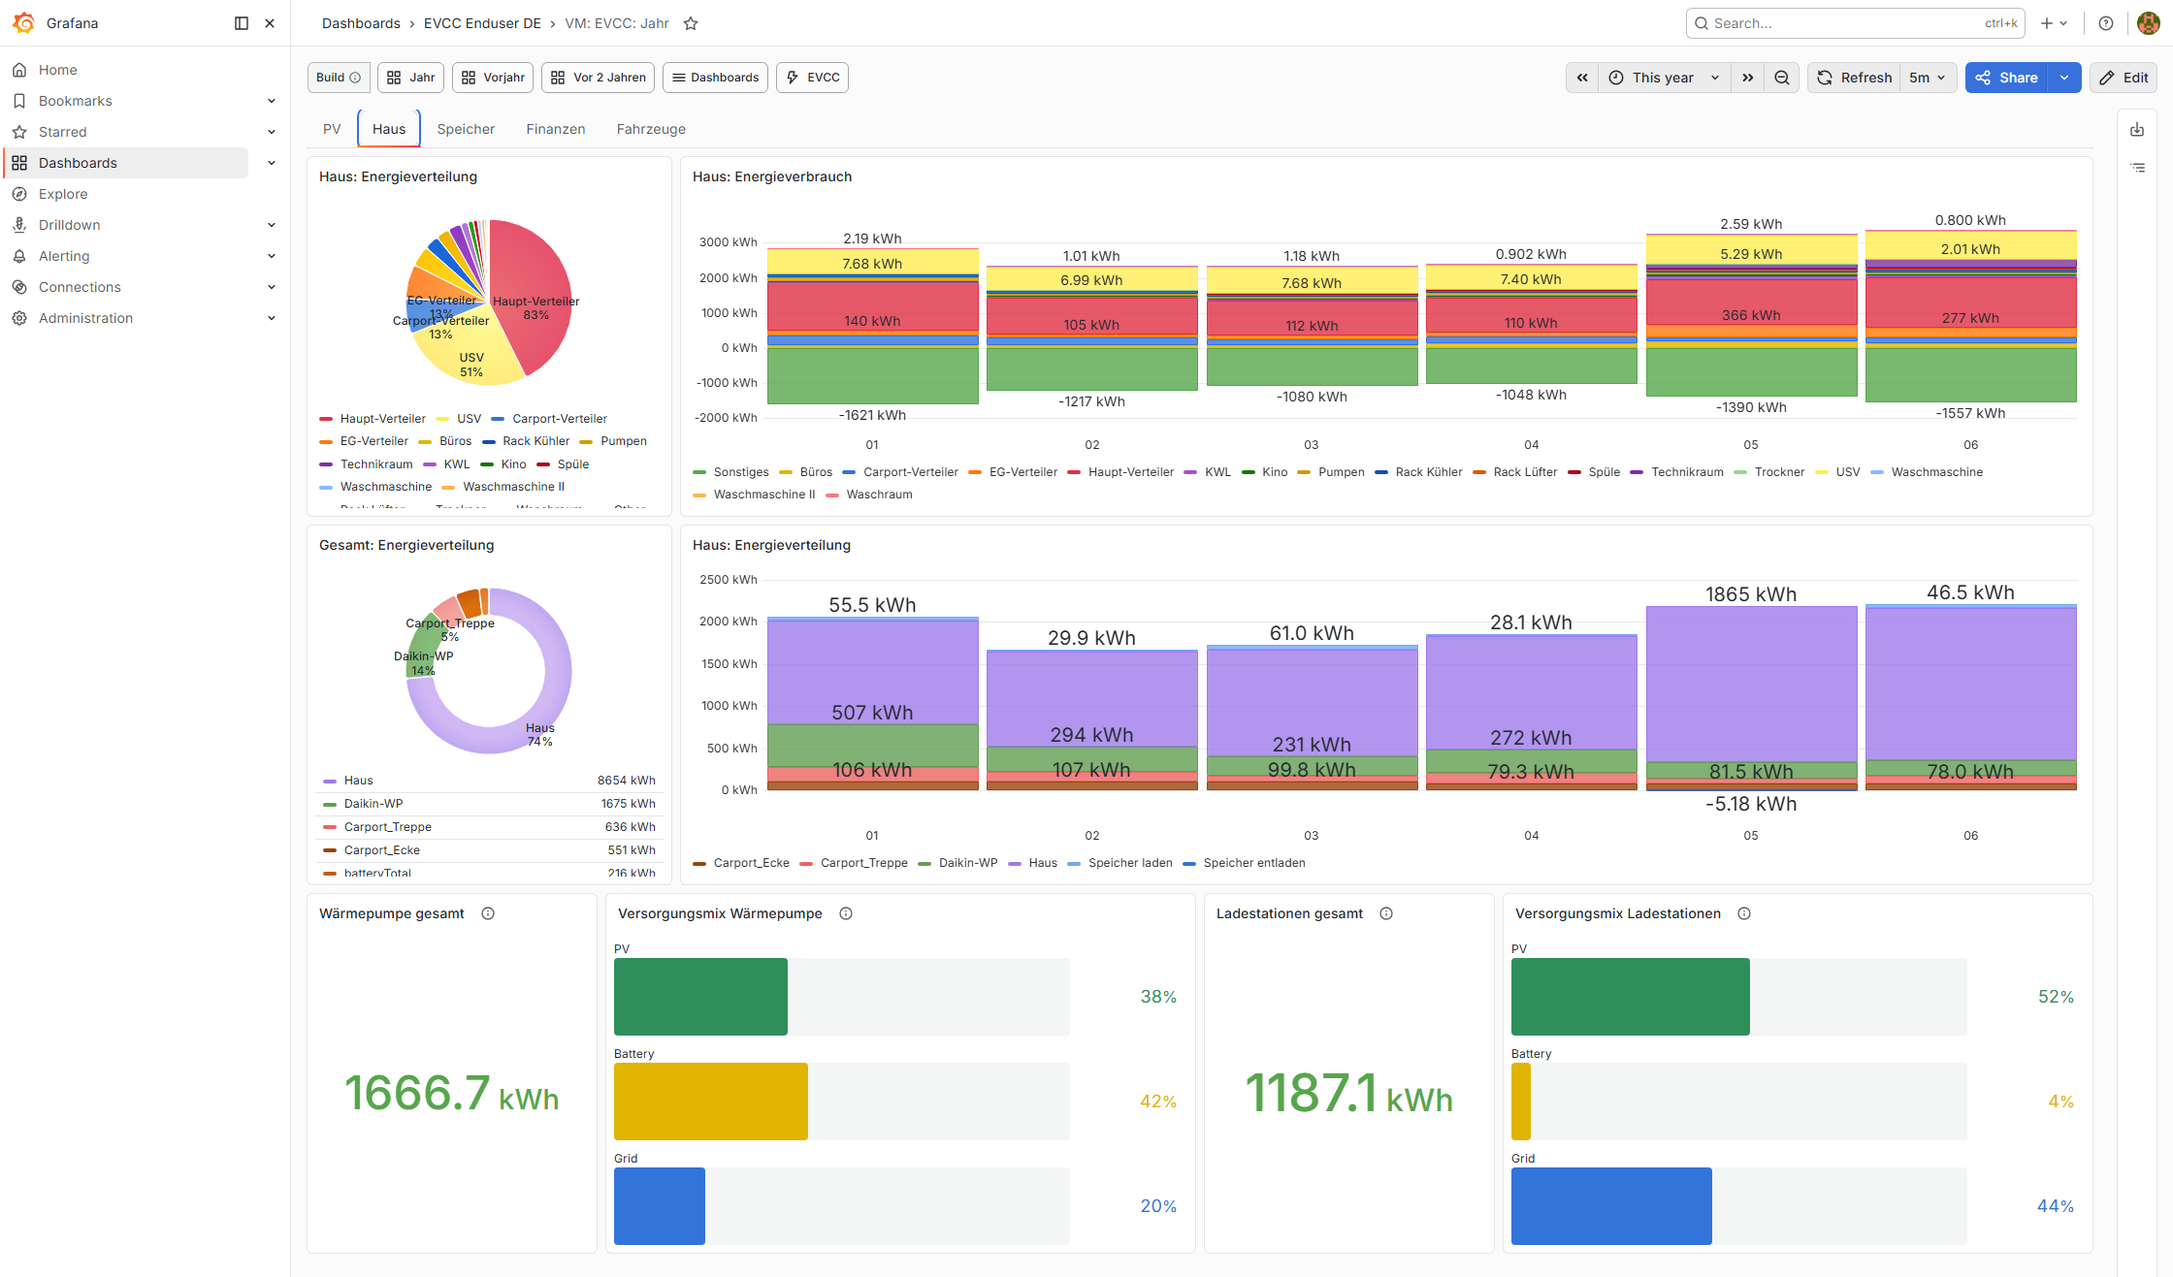
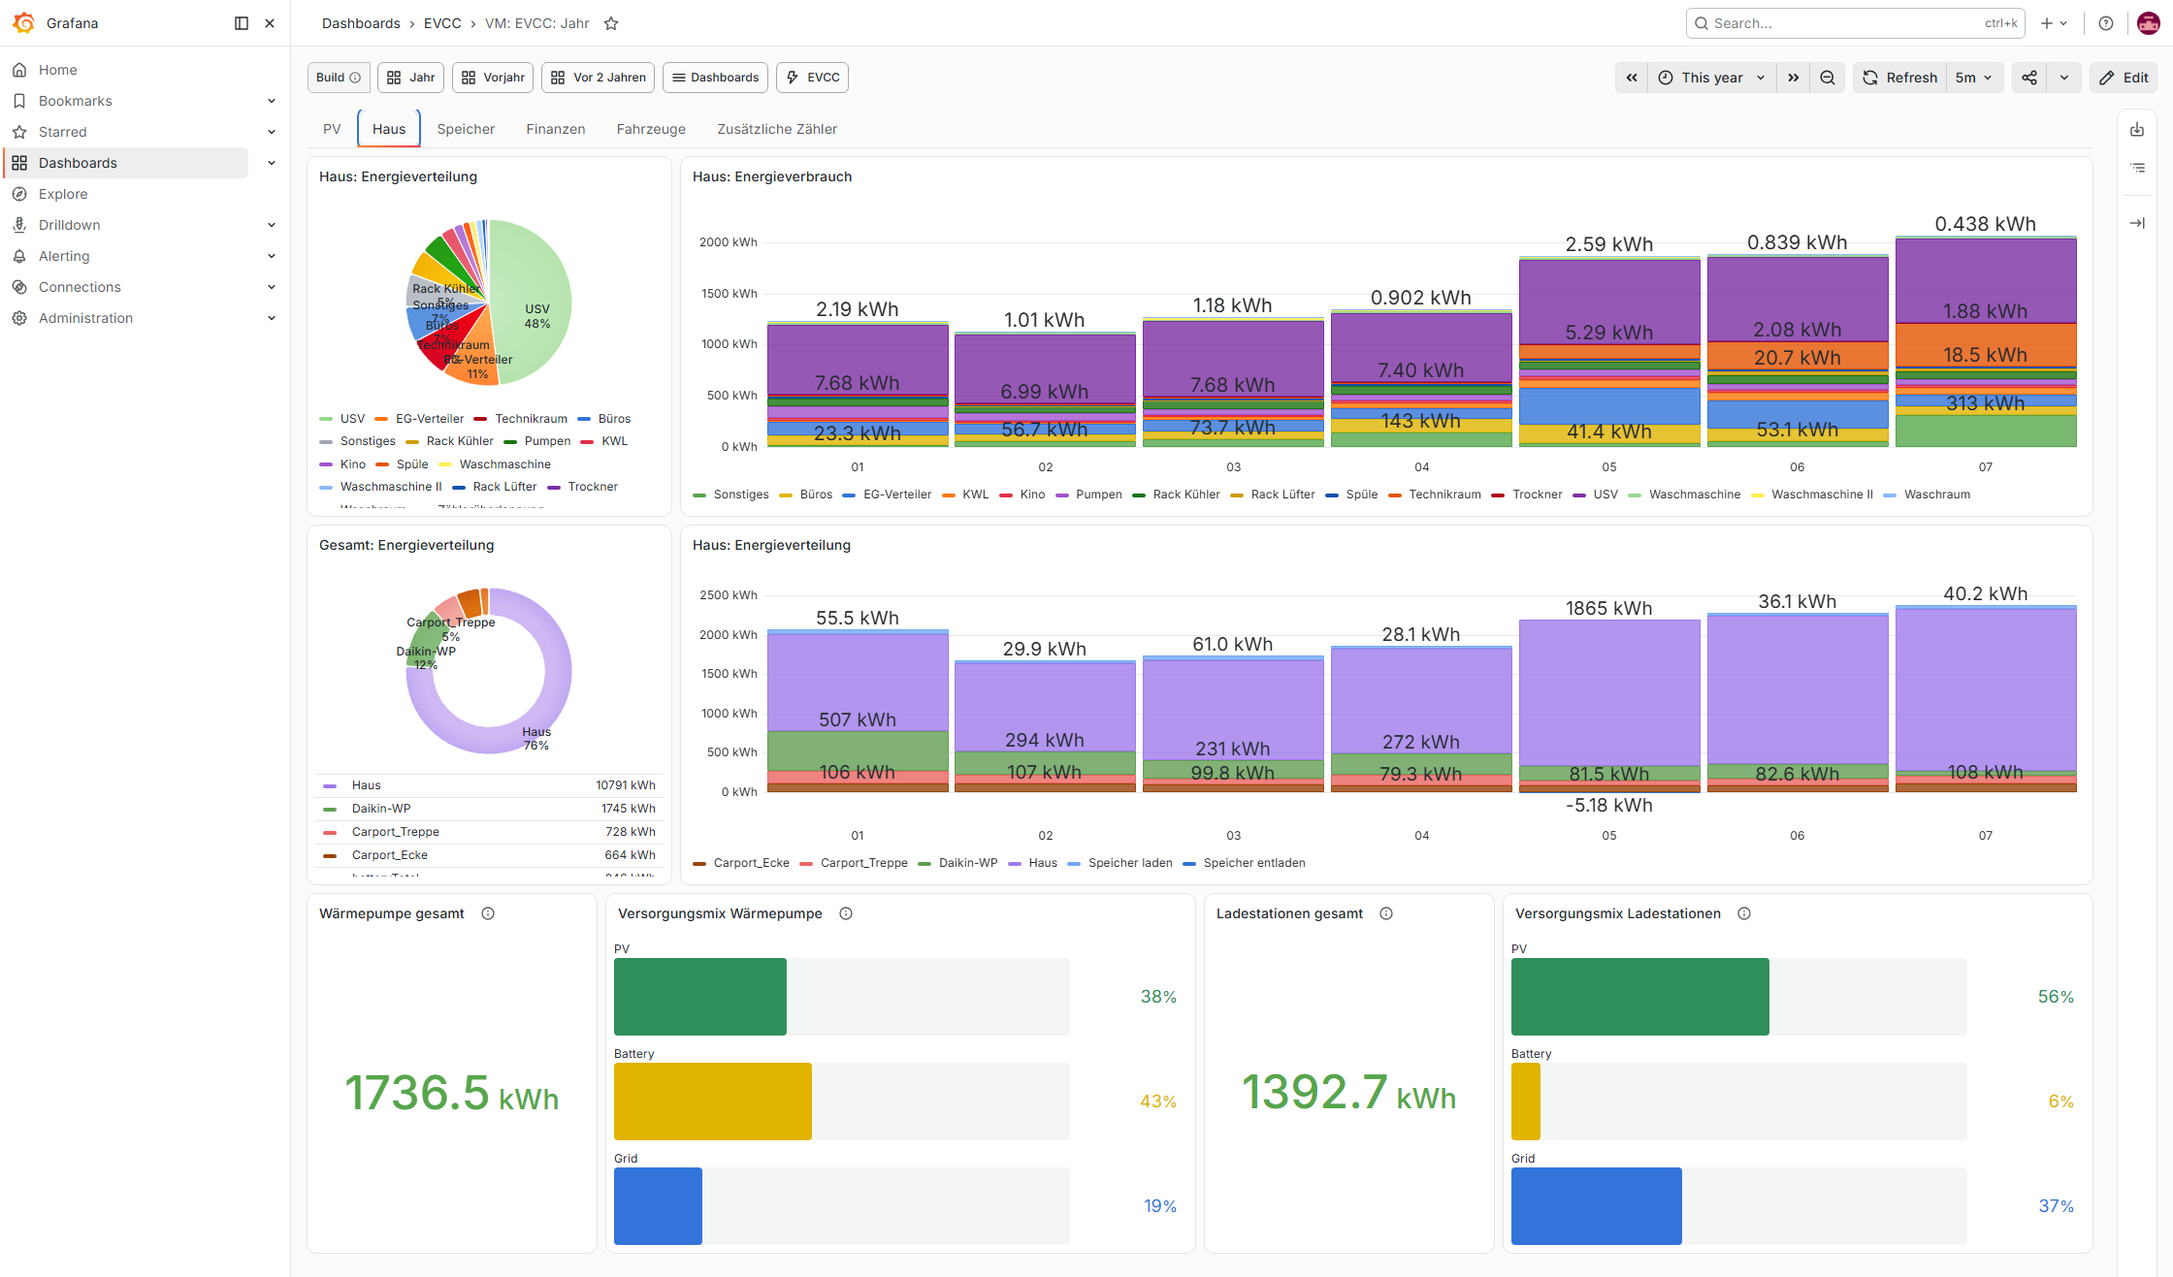
docs: prepare V2026-07-28 release

diff --git a/docs/de/first-release-checklist.md b/docs/de/first-release-checklist.md
@@ -93,7 +93,7 @@ Mindestens diese Punkte muessen vor dem ersten Endnutzer-Release erfuellt sein:
 - [x] taegliche Rollup-Aktualisierung getestet
 - [x] Windows- und Linux-Deployer getestet
 - [x] Lokalisierungs-Audit bei `0`
-- [ ] kuratierte Release-Screenshot-Serie unter [docs/screenshots](../screenshots/README.md) bildet den finalen sichtbaren Dashboard-Zustand ab, inklusive Tab-Navigation
+- [x] kuratierte Release-Screenshot-Serie unter [docs/screenshots](../screenshots/README.md) bildet den finalen sichtbaren Dashboard-Zustand ab, inklusive Tab-Navigation
 - [x] ein kompletter End-to-End-Migrationsdurchlauf wurde anhand der veroeffentlichten Doku abgeschlossen
 - [x] Read-only Live-Quellen-Render mit den echten Deploy-Overrides ist plausibel; neue optionale Funktionen ohne passende Live-Metrik sind nicht als live-validiert markiert
 
@@ -107,7 +107,7 @@ Aktuelle technische Nachweise:
 
 - Der vollständige Rollup verarbeitete 573 abgeschlossene Tage, 36.625 Samples und 1.388 Serien in 210,606 Sekunden bei 1.264 MB Spitzenspeicher.
 - `check_data.py --phase full` meldete insgesamt `OK`, keine doppelten Label-/Tageskombinationen sowie keine `host`- oder `db`-Labels.
-- Der verpflichtende Lauf `npm run test:rollup-path -- --strict-energy --vm-base-url http://127.0.0.1:18440` bestand in 520,4 Sekunden: 190 Python-Tests, 76 Dashboard-JSON-Dateien, 382 reale MetricsQL-Abfragen, 60 kritische Panels in sechs Dashboards, 17 zusaetzliche historische `Today - Details`-Panelpruefungen und wiederholtes `--replace-range` ohne Duplikate.
+- Der verpflichtende Lauf `npm run test:rollup-path -- --strict-energy --vm-base-url http://127.0.0.1:18440` bestand auf den finalen Release-Quellen in 521,3 Sekunden: 190 Python-Tests, 76 Dashboard-JSON-Dateien, 382 reale MetricsQL-Abfragen, 60 kritische Panels in sechs Dashboards, 17 zusaetzliche historische `Today - Details`-Panelpruefungen und wiederholtes `--replace-range` ohne Duplikate.
 - Der VRM-Import enthielt 383 Tage und 2.298 Samples. Alle sechs VRM-Metriken stimmten taggenau mit dem normalisierten Quellsnapshot überein; `missing=0`, `extra=0`, `duplicates=0`. Juni 2026 ergab 85,260% Wirkungsgrad gegenüber 85,3% Referenz, also 0,040 Prozentpunkte Abweichung.
 - Der Scheduler-Lock wies einen gleichzeitig gestarteten zweiten Schreiblauf ab. Der Voll-Backfill meldete zwei ignorierte Counter-Resets, keine Leistungsspitzen und 9.910 fehlende Energie-Buckets.
 - Die Consumer-Langzeitreihen enthalten 14 kanonische Titel. Die alte Schreibweise `Trocker` erscheint nach dem Vollersatz nur noch als `Trockner`; gemappte frühere EXT-Verbraucher werden nicht zusätzlich als EXT gezählt.
@@ -115,9 +115,9 @@ Aktuelle technische Nachweise:
 - Der EXT-zu-Consumer-Migrationstest pruefte unter beiden Grafana-Versionen den 25.07.2026 vor dem Rollenwechsel, den 27.07.2026 als Uebergangstag und die aktuelle Today-Ansicht gegen die Live-Kopie. Die vier Haus-Panels blieben in allen Fenstern gefuellt; 14 historische und 14 aktuelle Verbrauchertitel wurden ohne identische Doppeltitel sowie ohne Carport- oder Hauptverteiler-Summenzaehler geliefert.
 - Das Monats-Speicherlayout wurde bei 1280 Pixel Breite korrigiert: Kennzahlen und Tagesachsen überlappen sich nicht mehr.
 
-Frühere Installations-, Migrations- und Lokalisierungsnachweise bleiben gültig. Die Screenshots unter `docs/screenshots` bilden jedoch noch den vorherigen Release-Kandidaten ab und dürfen erst nach Oles manueller Sichtfreigabe aktualisiert und als final markiert werden.
+Frühere Installations-, Migrations- und Lokalisierungsnachweise bleiben gültig. Ole hat den finalen Dashboard-Stand am 2026-07-28 manuell freigegeben. Die kuratierte Galerie wurde danach vollständig neu erzeugt und umfasst 25 Ansichten einschließlich Consumer- und Zusatzzaehler-Tabs.
 
-Noch offen für das Release-Gate: Oles manuelle Sichtfreigabe, Aktualisierung der kuratierten Screenshots und Abschluss von Issue #30. Issue #35 bleibt ausdrücklich außerhalb dieses Release-Umfangs.
+Das Release-Gate ist vollständig erfüllt: Oles manuelle Sichtfreigabe liegt vor, 25 kuratierte Screenshots bilden den finalen Stand ab und der verpflichtende Rollup-Pfad bestand auf den finalen Quellen in 521,3 Sekunden. Issue #30 wird mit diesem Release geschlossen. Issue #35 bleibt ausdrücklich außerhalb dieses Release-Umfangs.
 Debian-13-Installationsnachweise vom 2026-05-29:
 
 - validiert in frischen `debian:trixie` Docker-Containern mit Debian `13.5` und `x86_64`

diff --git a/docs/en/first-release-checklist.md b/docs/en/first-release-checklist.md
@@ -93,7 +93,7 @@ At minimum, do not publish a first end-user release until all of these are true:
 - [x] daily rollup refresh tested
 - [x] Windows and Linux deployers tested
 - [x] localization audit at `0`
-- [ ] curated release screenshot set under [docs/screenshots](../screenshots/README_EN.md) reflects the final visible dashboard state, including tab navigation state
+- [x] curated release screenshot set under [docs/screenshots](../screenshots/README_EN.md) reflects the final visible dashboard state, including tab navigation state
 - [x] one complete end-to-end migration walkthrough completed from the published docs
 - [x] Read-only live-source rendering with actual deploy overrides is plausible; new optional features without matching live metrics are not marked as live-validated
 
@@ -107,7 +107,7 @@ Current technical evidence:
 
 - The complete rollup processed 573 completed days, 36,625 samples, and 1,388 series in 210.606 seconds with 1,264 MB peak memory.
 - `check_data.py --phase full` reported overall `OK`, no duplicate label/day combinations, and no `host` or `db` labels.
-- The mandatory `npm run test:rollup-path -- --strict-energy --vm-base-url http://127.0.0.1:18440` run passed in 520.4 seconds: 190 Python tests, 76 dashboard JSON files, 382 real MetricsQL queries, 60 critical panels across six dashboards, 17 additional historical `Today - Details` panel checks, and repeated `--replace-range` without duplicates.
+- The mandatory `npm run test:rollup-path -- --strict-energy --vm-base-url http://127.0.0.1:18440` run passed on the final release sources in 521.3 seconds: 190 Python tests, 76 dashboard JSON files, 382 real MetricsQL queries, 60 critical panels across six dashboards, 17 additional historical `Today - Details` panel checks, and repeated `--replace-range` without duplicates.
 - The VRM import contained 383 days and 2,298 samples. All six VRM metrics matched the normalized source snapshot day by day with `missing=0`, `extra=0`, and `duplicates=0`. June 2026 produced 85.260% efficiency versus the 85.3% reference, a 0.040 percentage-point delta.
 - The scheduler lock rejected a concurrently started second write run. The full backfill reported two ignored counter resets, zero power spikes, and 9,910 missing energy buckets.
 - Consumer long-range series contain 14 canonical titles. The former `Trocker` spelling appears only as `Trockner` after full replacement; mapped former EXT consumers are not also counted as EXT.
@@ -115,9 +115,9 @@ Current technical evidence:
 - The EXT-to-Consumer migration test covered 2026-07-25 before the role change, 2026-07-27 as the cutover day, and the current Today view against the live-data copy under both Grafana versions. All four Home panels stayed populated; 14 historical and 14 current consumer titles were returned without identical duplicate titles and without Carport or Main Distribution sum meters.
 - The Month battery layout was corrected at 1280 pixels: metrics and daily axis labels no longer overlap.
 
-Earlier installation, migration, and localization evidence remains valid. The screenshots under `docs/screenshots` still represent the previous release candidate and must only be refreshed and marked final after Ole's manual visual approval.
+Earlier installation, migration, and localization evidence remains valid. Ole manually approved the final dashboard revision on 2026-07-28. The curated gallery was then regenerated completely and contains 25 views, including Consumer and additional-meter tabs.
 
-Still open for the release gate: Ole's manual visual approval, refreshed curated screenshots, and completion of issue #30. Issue #35 remains explicitly outside this release scope.
+The release gate is fully satisfied: Ole manually approved the final view, 25 curated screenshots represent the final revision, and the mandatory rollup path passed on the final sources in 521.3 seconds. Issue #30 is closed with this release. Issue #35 remains explicitly outside this release scope.
 Debian 13 install evidence from 2026-05-29:
 
 - validated in fresh `debian:trixie` Docker containers reporting Debian `13.5` and `x86_64`

diff --git a/docs/dev/ai-working-state.md b/docs/dev/ai-working-state.md
@@ -33,15 +33,16 @@ Issues #20, #21, and #22 were technically completed on 2026-07-28. Their Forgejo
 - Data quality: overall `OK`, zero duplicate label/day combinations, zero `host` labels, zero `db` labels, two ignored counter resets, zero power spikes, 9,910 missing energy buckets.
 - Consumer titles: 14 canonical long-range titles; `Trocker` is merged into `Trockner` before daily integration.
 - VRM parity: 383 days, 2,298 samples, six metrics, zero missing/extra/duplicate days. June 2026 efficiency 85.260%, reference delta 0.040 percentage points.
-- Mandatory release path: 190 Python tests, 76 dashboard JSON files, 382 live MetricsQL queries, 60 critical rendered panels plus 17 historical Today Details panels, repeated replace-range idempotence; result `OK` in 520.4 seconds on the final dashboard sources.
+- Mandatory release path: 190 Python tests, 76 dashboard JSON files, 382 live MetricsQL queries, 60 critical rendered panels plus 17 historical Today Details panels, repeated replace-range idempotence; result `OK` in 521.3 seconds on the final release sources.
 - EXT-to-Consumer raw migration: both Grafana 13.0.1 and 13.1.0 passed current, pre-cutover (2026-07-25), and cutover-day (2026-07-27) livecopy renders. The four Home panels stayed populated; the explicit mapping returned 14 historical and 14 current titles without identical duplicates or filtered parent/sum meters.
 - The Month battery layout was visually checked at 1280 pixels after deployment; values and daily axis labels no longer overlap.
 
 ## Remaining Release Gate
 
-- Ole manually reviews the disposable German Grafana dashboards.
-- Curated screenshots are refreshed only after that approval.
-- Issue #30 remains the overall release gate.
+- V2026-07-28 passed the complete technical and visual release gate.
+- Ole approved the disposable German Grafana dashboards on 2026-07-28.
+- The curated gallery contains 25 final screenshots, including Consumer and additional-meter tabs.
+- Issue #30 is closed with V2026-07-28.
 - Issue #35 remains excluded from this release.
 
 ## Known Endpoints And Constraints

diff --git a/docs/screenshots/README.md b/docs/screenshots/README.md
@@ -30,6 +30,22 @@ All-Time-Finanzansicht mit Kosten- und Ersparniskennzahlen.
 
 All-Time-Anlagengesundheit mit Langzeitindikatoren.
 
+### All-Time Verbraucher
+
+<a href="./alltime-consumers.png" target="_blank" rel="noopener">
+  <img src="./alltime-consumers.png" alt="All-Time Verbraucher Tab" width="720">
+</a>
+
+All-Time-Verbraucherenergie mit historischen EXT- und aktuellen Consumer-Reihen.
+
+### All-Time Zusätzliche Zähler
+
+<a href="./alltime-additional-meters.png" target="_blank" rel="noopener">
+  <img src="./alltime-additional-meters.png" alt="All-Time Zusätzliche Zähler Tab" width="720">
+</a>
+
+All-Time-Ansicht der fachlich getrennten zusätzlichen Kontroll- und Summenzähler.
+
 ## Year
 
 ### Year PV
@@ -72,6 +88,14 @@ Jahresansicht fuer Finanzen, Stromkosten und PV-Gestehungskosten.
 
 Jahresansicht fuer Fahrzeuge und Ladeenergie.
 
+### Year Zusätzliche Zähler
+
+<a href="./year-additional-meters.png" target="_blank" rel="noopener">
+  <img src="./year-additional-meters.png" alt="Year Zusätzliche Zähler Tab" width="720">
+</a>
+
+Jahresansicht der zusätzlichen Zähler getrennt von den Hausverbrauchern.
+
 ## Month
 
 ### Month PV
@@ -105,6 +129,14 @@ Monatsansicht fuer Batterie, SOC und Speicherfluesse.
 </a>
 
 Monatsansicht fuer Finanzen, Strompreise und Stromkosten.
+
+### Month Zusätzliche Zähler
+
+<a href="./month-additional-meters.png" target="_blank" rel="noopener">
+  <img src="./month-additional-meters.png" alt="Month Zusätzliche Zähler Tab" width="720">
+</a>
+
+Monatsansicht der zusätzlichen Kontroll- und Summenzähler.
 
 ## Today - Details
 
@@ -155,6 +187,14 @@ Tarife-Tab mit Preis- und Kostenansichten.
 </a>
 
 Ladepunkte-Tab mit Ladepunkt- und Fahrzeugdaten.
+
+### Today Details Zusätzliche Zähler
+
+<a href="./today-additional-meters.png" target="_blank" rel="noopener">
+  <img src="./today-additional-meters.png" alt="Today Details Zusätzliche Zähler Tab" width="720">
+</a>
+
+Aktuelle Leistung und Tagesenergie der zusätzlichen Zähler ohne doppelte historische Consumer.
 
 ## Today
 

diff --git a/docs/screenshots/README_EN.md b/docs/screenshots/README_EN.md
@@ -30,6 +30,22 @@ All-time finance view with cost and savings metrics.
 
 All-time plant-health view with long-range indicators.
 
+### All-Time Consumers
+
+<a href="./alltime-consumers.png" target="_blank" rel="noopener">
+  <img src="./alltime-consumers.png" alt="All-Time Consumers Tab" width="720">
+</a>
+
+All-time consumer energy with historical EXT and current Consumer series.
+
+### All-Time Additional Meters
+
+<a href="./alltime-additional-meters.png" target="_blank" rel="noopener">
+  <img src="./alltime-additional-meters.png" alt="All-Time Additional Meters Tab" width="720">
+</a>
+
+All-time view of separately classified control and sum meters.
+
 ## Year
 
 ### Year PV
@@ -72,6 +88,14 @@ Yearly finance view with electricity costs and PV generation costs.
 
 Yearly vehicle and charging energy view.
 
+### Year Additional Meters
+
+<a href="./year-additional-meters.png" target="_blank" rel="noopener">
+  <img src="./year-additional-meters.png" alt="Year Additional Meters Tab" width="720">
+</a>
+
+Year view of additional meters separately from home consumers.
+
 ## Month
 
 ### Month PV
@@ -105,6 +129,14 @@ Monthly battery, SOC, and storage flow view.
 </a>
 
 Monthly finance view with electricity prices and costs.
+
+### Month Additional Meters
+
+<a href="./month-additional-meters.png" target="_blank" rel="noopener">
+  <img src="./month-additional-meters.png" alt="Month Additional Meters Tab" width="720">
+</a>
+
+Month view of additional control and sum meters.
 
 ## Today - Details
 
@@ -155,6 +187,14 @@ Tariffs tab with price and cost views.
 </a>
 
 Loadpoints tab with charging point and vehicle data.
+
+### Today Details Additional Meters
+
+<a href="./today-additional-meters.png" target="_blank" rel="noopener">
+  <img src="./today-additional-meters.png" alt="Today Details Additional Meters Tab" width="720">
+</a>
+
+Current power and daily energy of additional meters without duplicated historical Consumers.
 
 ## Today
 

diff --git a/docs/de/release-notes.md b/docs/de/release-notes.md
@@ -4,7 +4,9 @@ Englische Version: [release-notes.md](../en/release-notes.md).
 
 Diese Hinweise fassen die oeffentlichen EVCC-Dashboard-Releases auf VictoriaMetrics-Basis zusammen.
 
-## Unreleased
+## V2026-07-28
+
+Relevante Commits: `10609e6`, `4bb01ee`, `fdb8093`, `fc4cdad`, `90c1dbf`, `42b748b`, `3e327e1`, `bf5ea36`.
 
 ### Neue Funktionen
 
@@ -22,6 +24,8 @@ Diese Hinweise fassen die oeffentlichen EVCC-Dashboard-Releases auf VictoriaMetr
 - Die Datenprüfung erkennt mehrere Rollup-Samples desselben Labelsatzes am selben lokalen Tag als kritischen Fehler.
 - Der Rollup-Scheduler schützt Schreibläufe mit einer Lock-Datei, verarbeitet standardmäßig nur abgeschlossene Tage und meldet Resets, Leistungsspitzen sowie fehlende Energie-Buckets.
 - Der vollständige Livecopy-Backfill wurde profiliert; die Titelkanonisierung läuft speicherschonend in MetricsQL und der normale Monats-Ersatzpfad bleibt kurz.
+- Grafana 13.0.1 bleibt die unterstützte Basis; derselbe Dashboard-Stand wurde zusätzlich unter Grafana 13.1.0 geprüft, ohne 13.1 vorauszusetzen.
+- Die kuratierte Screenshot-Galerie umfasst jetzt 25 aktuelle Ansichten einschließlich Consumer- und Zusatzzaehler-Tabs.
 
 ### Fehlerbehebungen
 

diff --git a/docs/en/release-notes.md b/docs/en/release-notes.md
@@ -2,7 +2,9 @@
 
 These notes summarize the public VictoriaMetrics-based EVCC dashboard releases.
 
-## Unreleased
+## V2026-07-28
+
+Relevant commits: `10609e6`, `4bb01ee`, `fdb8093`, `fc4cdad`, `90c1dbf`, `42b748b`, `3e327e1`, `bf5ea36`.
 
 ### New Features
 
@@ -20,6 +22,8 @@ These notes summarize the public VictoriaMetrics-based EVCC dashboard releases.
 - Data validation treats multiple rollup samples for the same label set and local day as a critical error.
 - The rollup scheduler guards write runs with a lock file, accepts completed days only by default, and reports resets, power spikes, and missing energy buckets.
 - The complete livecopy backfill was profiled; title canonicalization runs memory-efficiently in MetricsQL and the normal monthly replacement path remains short.
+- Grafana 13.0.1 remains the supported baseline; the same dashboard revision was additionally validated on Grafana 13.1.0 without requiring 13.1.
+- The curated screenshot gallery now contains 25 current views, including Consumer and additional-meter tabs.
 
 ### Bug Fixes
 
